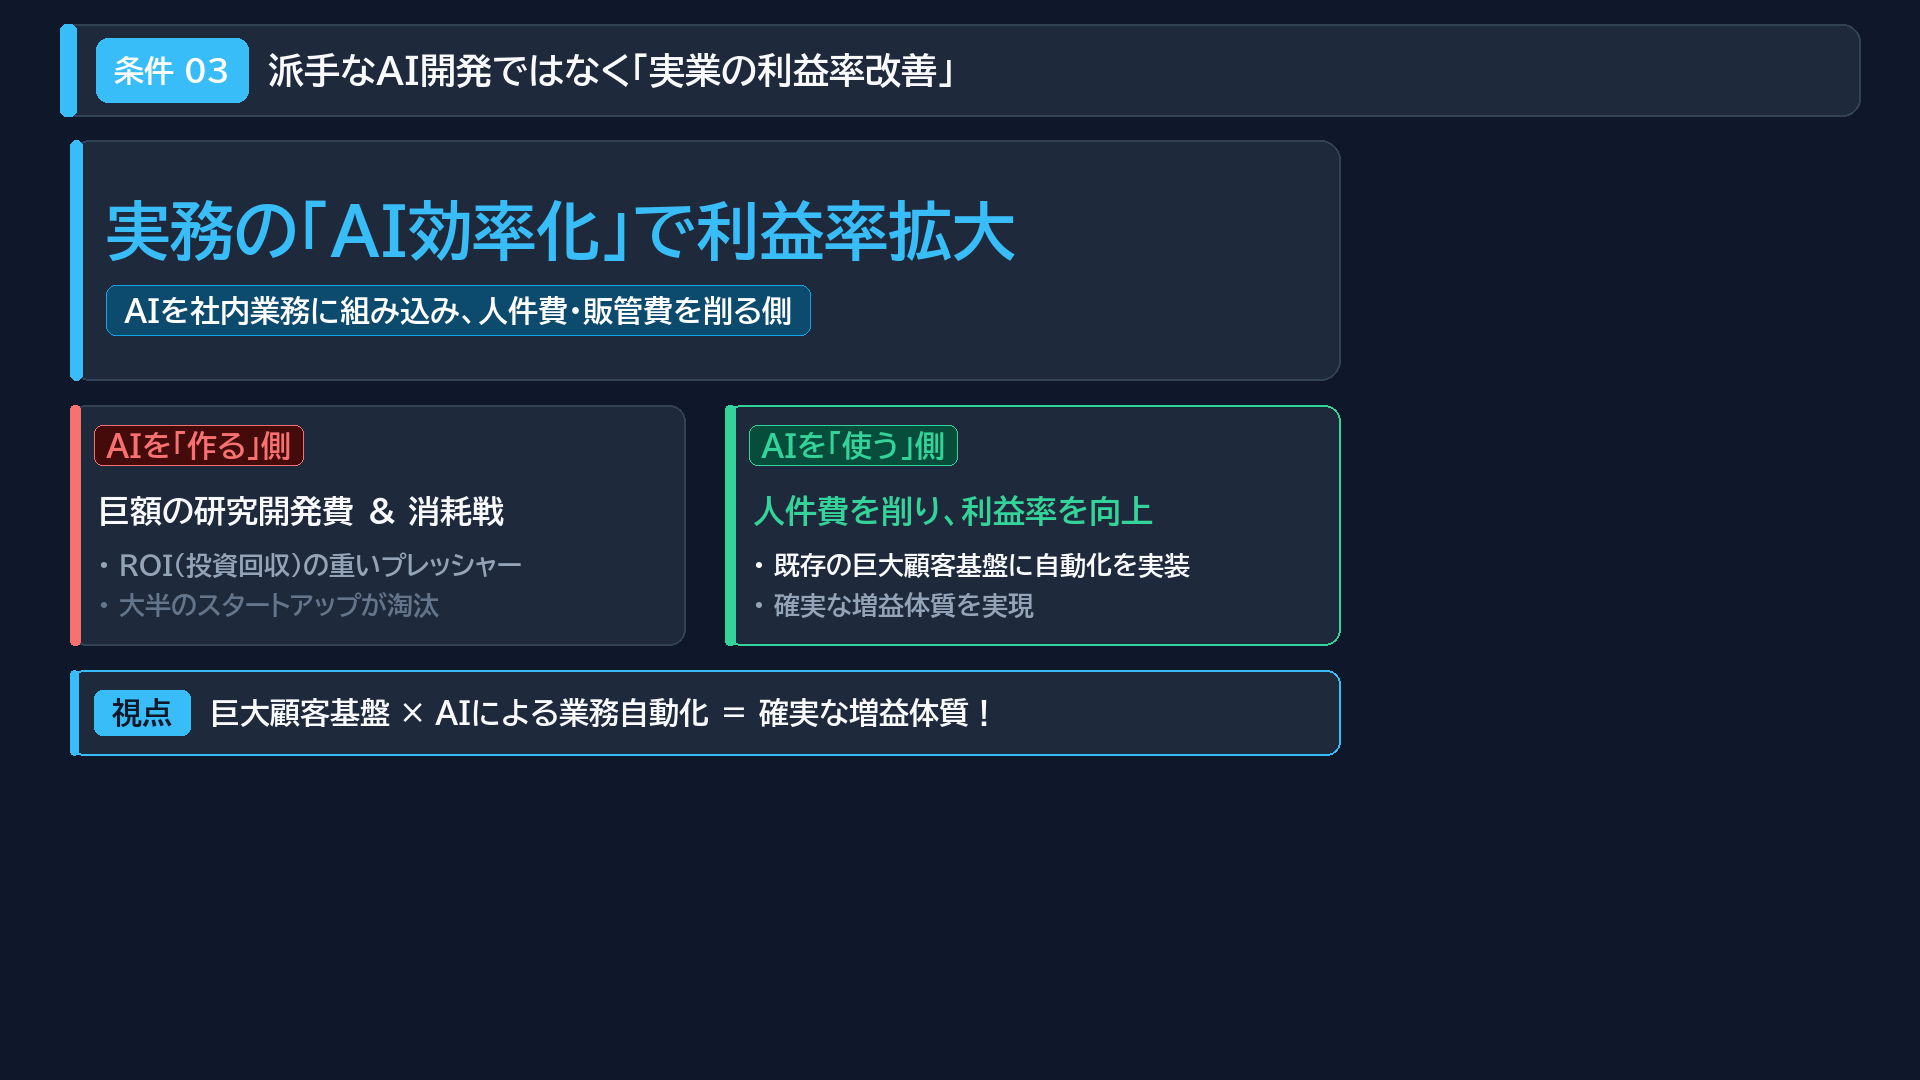
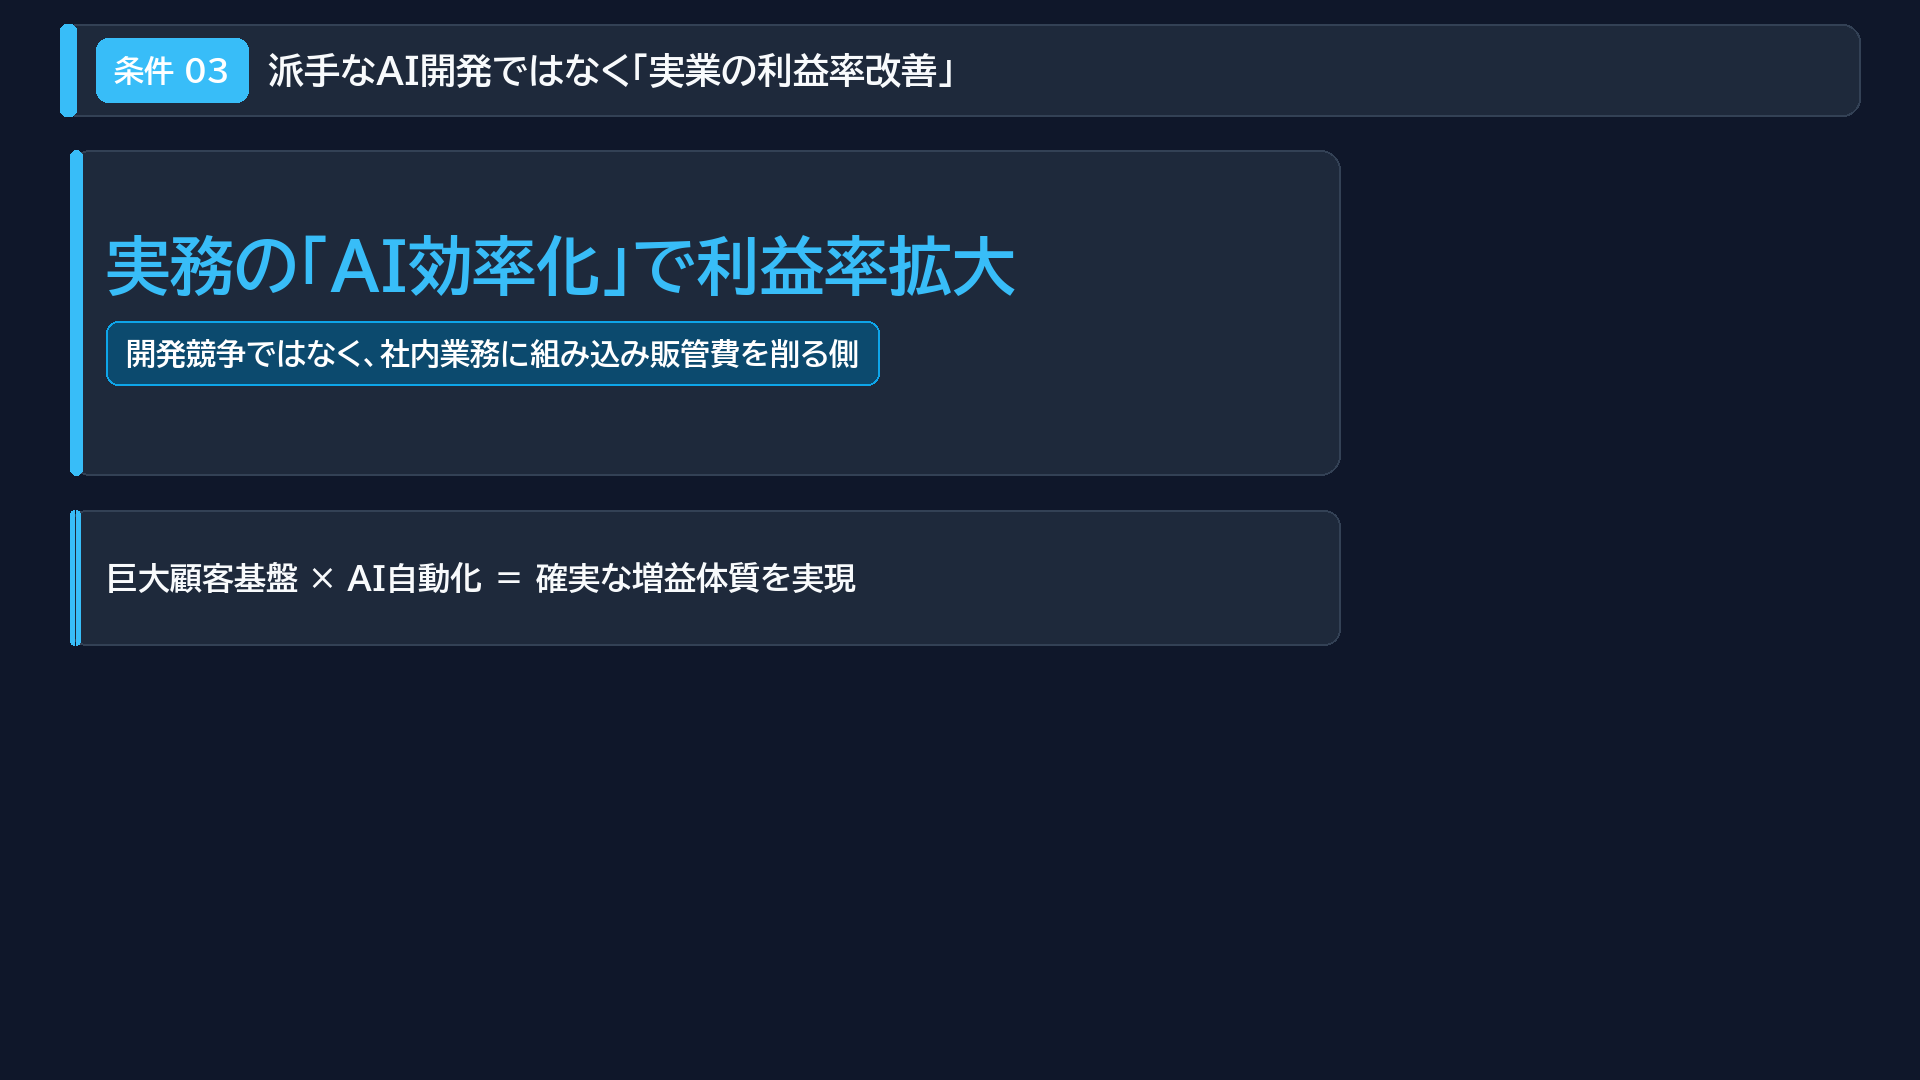
feat(broll): enforce systematic cognitive load ceiling and align condition 3 metric architecture

Changed region(s): [[0.0312, 0.1833, 0.625, 0.7028], [0.0312, 0.1222, 0.6875, 0.1528]]

diff --git a/veraxi_ymmp/broll.py b/veraxi_ymmp/broll.py
@@ -134,6 +134,42 @@ def get_status_colors(accent_color: Tuple[int, int, int]):
         return (12, 74, 110, 255), (14, 165, 233, 255), (255, 255, 255, 255)
 
 
+# Cognitive Load Safety Ceiling for 4-6 second YouTube Cuts
+MAX_SLIDE_CHARS = 100
+MAX_SLIDE_ELEMENTS = 6
+
+def check_cognitive_load(
+    slide_title: str,
+    text_elements: List[str],
+    max_chars: int = MAX_SLIDE_CHARS,
+    max_elements: int = MAX_SLIDE_ELEMENTS
+):
+    """
+    Systematic Cognitive Load & Text Density Check.
+    Enforces the '1-Slide-1-Impact' rule for video presentation boards.
+    Rejects slides with excessive text, overcrowded bullet lists, or visual clutter
+    that causes viewer reading fatigue during 4-6 second cuts.
+    """
+    clean_texts = [str(t).strip() for t in text_elements if t and str(t).strip()]
+    total_chars = sum(len(t) for t in clean_texts)
+
+    if len(clean_texts) > max_elements:
+        raise ValueError(
+            f"Cognitive Overload Violation on slide '{slide_title}': "
+            f"Contains {len(clean_texts)} discrete text blocks (max {max_elements} allowed).\n"
+            f"Elements: {clean_texts}\n"
+            "Rule: YouTube presentation cuts require 1-Slide-1-Takeaway architecture to avoid cognitive fatigue."
+        )
+
+    if total_chars > max_chars:
+        raise ValueError(
+            f"Cognitive Overload Violation on slide '{slide_title}': "
+            f"Total text length ({total_chars} chars) exceeds the safe limit of {max_chars} chars.\n"
+            f"Elements: {clean_texts}\n"
+            "Rule: Video viewers have only 4-6 seconds to read. Streamline copy to punchy key phrases."
+        )
+
+
 def render_metric_slide(
     out_path: Path,
     title: str,
@@ -152,6 +188,13 @@ def render_metric_slide(
     - 1 Dominant Hero Focus Card (Giant Number + Status Pill)
     - 1 Clean Single Impact Banner (eliminating the cluttered multi-card stack)
     """
+    # Systematic Cognitive Load Validation
+    check_cognitive_load(
+        title,
+        [title, step_tag, category_tag, hero_metric, status_pill, impact_tag, impact_text, badge_text],
+        max_chars=MAX_SLIDE_CHARS,
+        max_elements=MAX_SLIDE_ELEMENTS
+    )
     img, draw, fonts = create_slide_base(title, step_tag=step_tag, category_tag=category_tag, theme_color=theme_color)
     x1, x2 = 70, 1340
 
@@ -221,6 +264,15 @@ def render_vs_slide(
     """
     Renders a Pro Split Comparison "VS" Slide for instant comprehension.
     """
+    # Systematic Cognitive Load Validation
+    left_texts = [left_box[0], left_box[1]] + list(left_box[2]) if left_box else []
+    right_texts = [right_box[0], right_box[1]] + list(right_box[2]) if right_box else []
+    check_cognitive_load(
+        title,
+        [title, step_tag, top_badge, hero_title, hero_status, bottom_tag, bottom_text] + left_texts + right_texts,
+        max_chars=MAX_SLIDE_CHARS,
+        max_elements=MAX_SLIDE_ELEMENTS
+    )
     img, draw, fonts = create_slide_base(title, step_tag=step_tag, theme_color=theme_color)
     x1, x2 = 70, 1340
 
@@ -310,6 +362,17 @@ def render_overview_slide(
     - If conclusion_text is empty, omits the bottom banner for a clean agenda look
     - Dynamic badge width prevents cutoff for 第１期 / 第２期 / 条件 01
     """
+    # Systematic Cognitive Load Validation
+    card_texts = []
+    for c in cards:
+        if isinstance(c, (list, tuple)):
+            card_texts.extend([str(x) for x in c[:-1] if isinstance(x, str)])
+    check_cognitive_load(
+        title,
+        [title, conclusion_tag, conclusion_text] + card_texts,
+        max_chars=MAX_SLIDE_CHARS,
+        max_elements=MAX_SLIDE_ELEMENTS + 4
+    )
     img, draw, fonts = create_slide_base(title, theme_color=theme_color)
     x1, x2 = 70, 1340
     n = len(cards)

diff --git a/tests/test_broll_cognitive_load.py b/tests/test_broll_cognitive_load.py
@@ -1,0 +1,45 @@
+import pytest
+from pathlib import Path
+from veraxi_ymmp.broll import (
+    check_cognitive_load,
+    MAX_SLIDE_CHARS,
+    MAX_SLIDE_ELEMENTS,
+    render_metric_slide,
+    ACCENT_BLUE,
+    ACCENT_RED,
+)
+
+def test_cognitive_load_rejection_on_excessive_chars():
+    """Ensures slides exceeding MAX_SLIDE_CHARS are strictly rejected."""
+    long_text = "これはテスト用の非常に長いテキストブロックであり、4秒から5秒の短いカットにおいて視聴者に読字負荷を過剰に与えてしまう典型的なPowerPoint症候群のスライドです。さらに余計な補足説明を延々と追加して画面を文字で埋め尽くしています。"
+    with pytest.raises(ValueError, match="Total text length .* exceeds the safe limit"):
+        check_cognitive_load(
+            slide_title="認知負荷テスト",
+            text_elements=["タイトル", long_text],
+            max_chars=MAX_SLIDE_CHARS
+        )
+
+def test_cognitive_load_rejection_on_excessive_elements():
+    """Ensures slides with too many fragmented text boxes are rejected."""
+    elements = ["Element 1", "Element 2", "Element 3", "Element 4", "Element 5", "Element 6", "Element 7"]
+    with pytest.raises(ValueError, match="discrete text blocks"):
+        check_cognitive_load(
+            slide_title="要素過多テスト",
+            text_elements=elements,
+            max_elements=MAX_SLIDE_ELEMENTS
+        )
+
+def test_render_metric_slide_passes_clean_content(tmp_path):
+    """Ensures clean 1-Slide-1-Impact metric slide passes check and renders."""
+    out_file = tmp_path / "test_metric.png"
+    render_metric_slide(
+        out_path=out_file,
+        title="クリーンな指標スライド",
+        step_tag="条件 01",
+        hero_metric="豊富なフリーCF",
+        status_pill="自前資金で成長投資を継続",
+        impact_tag="",
+        impact_text="不況期でも強気の投資を維持",
+        theme_color=ACCENT_BLUE
+    )
+    assert out_file.exists()

diff --git a/generate_broll_hd.py b/generate_broll_hd.py
@@ -97,8 +97,8 @@ def generate_ai_phase_pt2(out_path: Path):
         out_path=out_path,
         title="投資回収（ROI）の過酷な試練（2026年〜現在）",
         step_tag="第2期",
-        hero_metric="年間5,000億ドルの回収要求",
-        status_pill="「そのAIで実際にいくら利益が増えたのか？」の検証期",
+        hero_metric="年間7,000億ドルの回収要求",
+        status_pill="米ビッグテック巨額投資の「回収（ROI）」を問う検証期",
         impact_tag="",
         impact_text="支出に見合う利益が出ない企業は急落 → 実力派へ資金集中",
         theme_color=ACCENT_RED
@@ -142,24 +142,14 @@ def generate_checklist_pt2(out_path: Path):
     )
 
 def generate_checklist_pt3(out_path: Path):
-    render_vs_slide(
+    render_metric_slide(
         out_path=out_path,
         title="派手なAI開発ではなく「実業の利益率改善」",
         step_tag="条件 03",
-        hero_title="実務の「AI効率化」で利益率拡大",
-        hero_status="AIを社内業務に組み込み、人件費・販管費を削る側",
-        left_box=(
-            "AIを「作る」側",
-            "巨額の研究開発費 ＆ 消耗戦",
-            ["ROI（投資回収）の重いプレッシャー", "大半のスタートアップが淘汰"]
-        ),
-        right_box=(
-            "AIを「使う」側",
-            "人件費を削り、利益率を向上",
-            ["既存の巨大顧客基盤に自動化を実装", "確実な増益体質を実現"]
-        ),
-        bottom_tag="視点",
-        bottom_text="巨大顧客基盤 × AIによる業務自動化 ＝ 確実な増益体質！",
+        hero_metric="実務の「AI効率化」で利益率拡大",
+        status_pill="開発競争ではなく、社内業務に組み込み販管費を削る側",
+        impact_tag="",
+        impact_text="巨大顧客基盤 × AI自動化 ＝ 確実な増益体質を実現",
         theme_color=ACCENT_BLUE
     )
 

diff --git a/.agents/skills/ymmp-qa/SKILL.md b/.agents/skills/ymmp-qa/SKILL.md
@@ -19,6 +19,11 @@ When asked to generate a video, you MUST follow this autonomous pipeline. Do NOT
   - Apply **1-Slide-1-Impact Architecture** (VS comparisons, big impact metric, or 3-card overview).
   - Strictly **NO redundant category badges** (e.g. no `【マクロ経済】`), **NO English jargon** (`OVERVIEW`, `Higher for Longer`), **NO robotic brackets** (`【警告】`, `【急騰】`), and **NO premature conclusion labels** (`本日の結論` in video intro).
   - **Overview / Agenda Slides**: Strictly **single-line headlines only** (no sub-bullet points, no premature conclusion boxes). 4-5 second cuts only allow scanning 3 clear headlines without cognitive overload.
+  - **Systematic Cognitive Load & Text Density Rule**:
+    - Hard ceiling: **<= 100 characters total** across all text on any slide.
+    - Maximum **6 discrete text elements** (title, step tag, hero, status pill, impact text, optional badge).
+    - **Zero nested bullet lists** on presentation cuts (causes severe reading fatigue and fights with subtitles/characters).
+    - Maintain visual symmetry across related sequences (e.g. Condition 01, 02, 03 must share the same clean `render_metric_slide` structure).
   - Use `veraxi_ymmp.broll` (`render_metric_slide`, `render_vs_slide`, `render_overview_slide`) to generate all slide assets.
 
 ### 2. Internal MP4 Render
